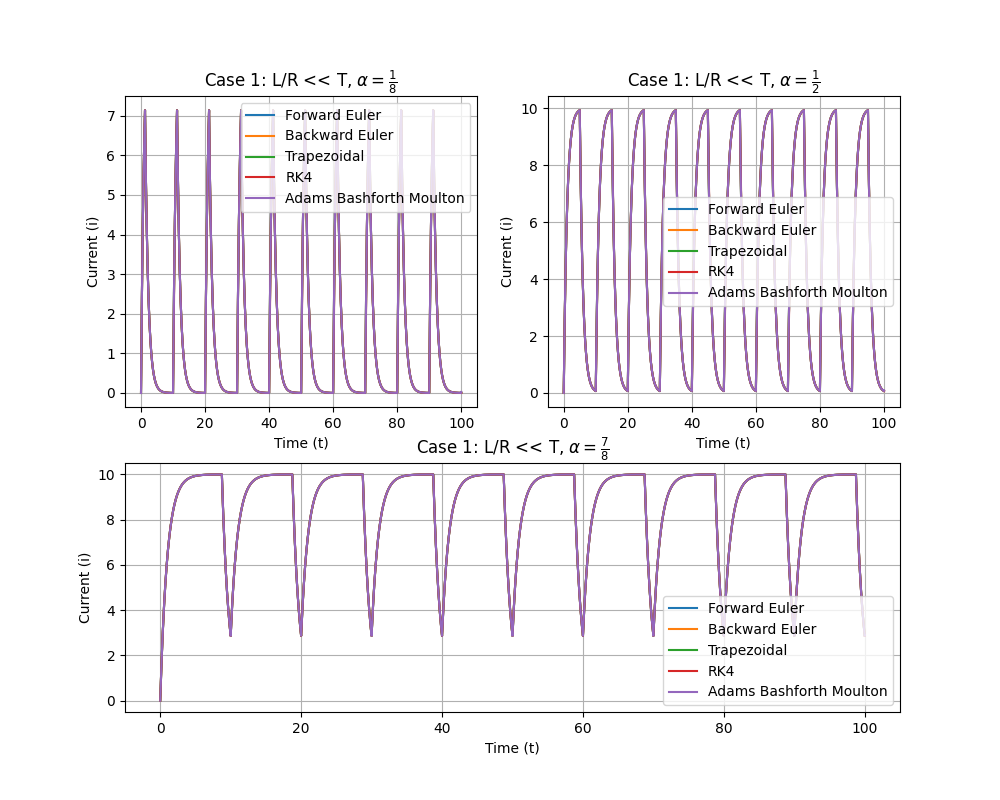
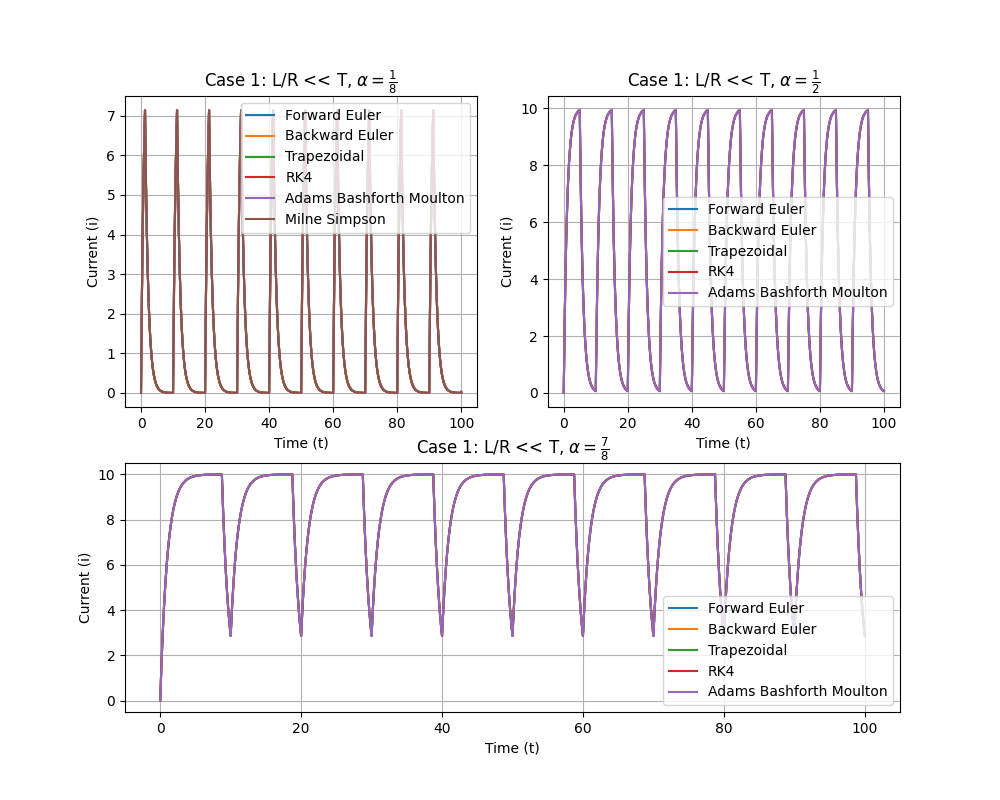
final code uploaded with comments

Changed region(s): [[0.124, 0.1562, 0.465, 0.5]]

diff --git a/spectrum.py b/spectrum.py
@@ -1,0 +1,38 @@
+import numpy as np
+import matplotlib.pyplot as plt
+import matplotlib.gridspec as gridspec
+
+alpha_vals = [0.125, 0.25, 0.5, 0.75, 0.875]
+k = np.arange(-50, 51, 5)
+
+fig = plt.figure(figsize=(12, 8))
+gs = gridspec.GridSpec(3, 3, height_ratios=[1, 1.2, 1.2])  # 3 rows, 3 columns
+
+Ck = np.zeros_like(k, dtype=float)
+
+axes = []  # List to store subplot axes
+
+for idx, alpha in enumerate(alpha_vals):
+    for i, val in enumerate(k):
+        if val != 0:
+            Ck[i] = np.abs((20 / (np.pi * val)) * np.sin(np.pi * val * alpha))
+        else:
+            Ck[i] = 19.5
+
+    if idx < 3:  # First 3 plots in the first row
+        ax = fig.add_subplot(gs[0, idx])
+    elif idx == 3:  # Last 2 plots span the entire second row
+        ax = fig.add_subplot(gs[1, :])  # Span all 3 columns
+    elif idx == 4:
+        ax = fig.add_subplot(gs[2, :])
+
+    ax.stem(k, Ck)
+    ax.set_xlabel("k")
+    ax.set_ylabel(r"$|C_k|$")
+    ax.set_title(r"Magnitude Spectrum for $\alpha$ = " + str(alpha))
+    ax.grid(True)
+
+    axes.append(ax)
+
+plt.tight_layout()
+plt.show()

diff --git a/comparison.py b/comparison.py
@@ -13,9 +13,12 @@ alpha = 0.5    # Duty cycle (fraction of the period the wave is "high")
 h = 0.001      # Step size
 amp = 10       # Amplitude of the square wave
 
+
+#actual square wave 
 def square(t, T, alpha, amp):
     return np.where((t % T) < T * alpha, amp, 0)
 
+#fourier series approximation of the square wave
 def fourier_series(t, T, alpha, N, amp = 10):
     sum = amp * alpha
     for k in range(1, N + 1):
@@ -40,6 +43,7 @@ plt.grid(True)
 plt.savefig("figs/input_wave.png")
 plt.show()
 
+#current response of the RL circuit to the square wave input
 def rl_forward_euler_square(r, l, alpha, amp, T, h, n):
     t_coord = []
     i_coord = []
@@ -52,6 +56,7 @@ def rl_forward_euler_square(r, l, alpha, amp, T, h, n):
         t += h
     return i_coord
 
+#current response of the RL circuit to the fourier series approximation of the input wave
 def rl_forward_euler_fourier(r, l, alpha, amp, T, h, N, n):
     t_coord = []
     i_coord = []

diff --git a/plots_numerical_methods.py b/plots_numerical_methods.py
@@ -31,7 +31,7 @@ for i in range(3):
     ax1.plot(nm.rl_trapezoidal(r, l, alpha, amp, T, h, n)[0], nm.rl_trapezoidal(r, l, alpha, amp, T, h, n)[1], label = "Trapezoidal")
     ax1.plot(nm.rl_rk4(r, l, alpha, amp, T, h, n)[0][:], nm.rl_rk4(r, l, alpha, amp, T, h, n)[1][:], label = "RK4")
     ax1.plot(nm.rl_adams_bashforth_moulton(r, l, alpha, amp, T, h, n)[0], nm.rl_adams_bashforth_moulton(r, l, alpha, amp, T, h, n)[1], label = "Adams Bashforth Moulton")
-    #plt.plot(nm.rl_milne_simpson(r, l, alpha, amp, T, h, n)[0], nm.rl_milne_simpson(r, l, alpha, amp, T, h, n)[1], label = "Milne Simpson")
+    ax1.plot(nm.rl_milne_simpson(r, l, alpha, amp, T, h, n)[0], nm.rl_milne_simpson(r, l, alpha, amp, T, h, n)[1], label = "Milne Simpson")
     ax1.legend()
     case = "Case " + str(i + 1) + ": L/R " + cases[i] + " T, " + titles[0]
     ax1.set_xlabel("Time (t)")

diff --git a/plots_fourier.py b/plots_fourier.py
@@ -21,7 +21,7 @@ alpha_values = [1/8, 1/2, 7/8]
 titles = [r"$\alpha = \frac{1}{8}$", r"$\alpha = \frac{1}{2}$", r"$\alpha = \frac{7}{8}$"]
 case = ["<<", "=", ">>"]
 
-
+#plotting the response of the RL circuit to the fourier series approximation of the input wave for different alpha and L/R values
 for j in range(3):
     # Create subplots with shared x-axis, stacked vertically
     fig, axes = plt.subplots(3, 1, figsize=(10, 8), sharex=True)

diff --git a/fourier_series.py b/fourier_series.py
@@ -6,7 +6,7 @@ def compute_current(R, L, w0, t, alpha, N=200):
     i_t = (10 * alpha / R) * (1 - np.exp(-t / tau))  
 
     # Summation term
-    sum_term = np.zeros_like(t)
+    sum_term = 0
     for n in range(1, N + 1):
         an = (10 * np.sin(2 * np.pi * alpha * n)) / (np.pi * n)
         bn = (20 * (np.sin(np.pi * alpha * n) ** 2)) / (np.pi * n)

diff --git a/numerical_methods.py b/numerical_methods.py
@@ -1,12 +1,14 @@
 import numpy as np
 
 
+#input square wave function
 def square(t, T, alpha, amp):
     if (t % T) < T * alpha:
         return amp
     else:
         return 0
 
+#function to calculate the derivative of current wrt time for the RL circuit
 def f(r, l, t, i, T, alpha, amp):
     return (square(t, T, alpha, amp) / l) - ((i * r) / l)
 
